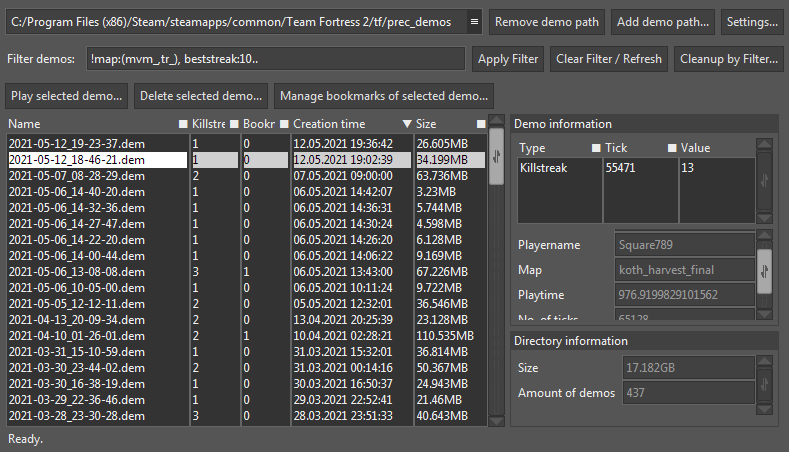
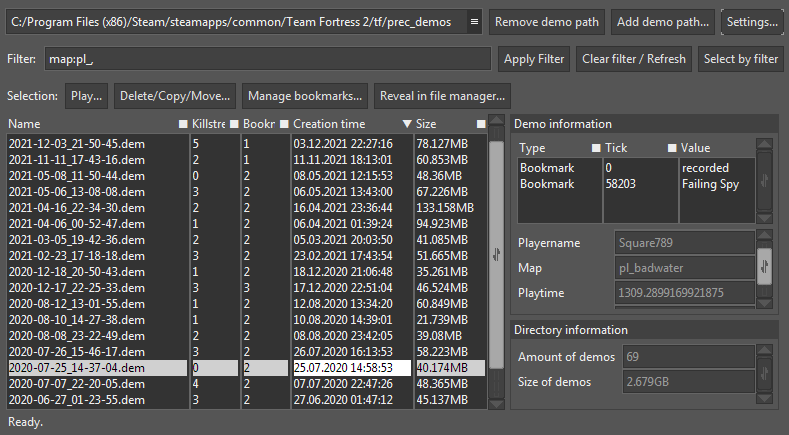
Updated README
- Pretty new picture
- Nuitka build installation instructions

diff --git a/README.md b/README.md
@@ -2,20 +2,22 @@
 Demomgr is a python program designed to keep track of, cleanup and play demo files from the Source video game Team Fortress 2, released by Valve Corporation in 2007.
 
 > ![Main program window](https://github.com/Square789/Demomgr/blob/master/img0.PNG)  
-> _Main program view, directory filtered to only display demos with a killstreak >= 10 not taking place on training or mvm maps, sorted by creation time._
+> _Main program view, directory filtered to only demos taking place on payload maps, sorted by creation time._
+
 ### Current features:
 * List Demos, their filesize, creation date and the amount of Killstreaks/Bookmarks
+  * Sort them by these criteria
 * Read Killstreak/Bookmark information from both .json files and the \_events.txt file
 * View and edit bookmark information of individual demos
 * View header information of individual demos
-* Sort and filter demos by multiple criteria
+* Filter and select demos by multiple criteria
 * Cleanup folders by filter criteria
 * Copy/Move demos and their info to other directories
 * Launch TF2 with a playdemo command attached
   * Optionally with HLAE
 * Play a demo into an already running instance of TF2 using [RCON](https://developer.valvesoftware.com/wiki/Source_RCON_Protocol)
 
-### Start Instructions:
+### Installation Instructions (Pure python):
 If you don't have python, get it from [the official website](https://www.python.org).
 
 Demomgr is in python's package index (PyPI), you can install it using `pip install demomgr`.
@@ -26,8 +28,14 @@ If that does not work out for you, try `py -m demomgr`, or in a very extravagant
 python script that runs  
 `from demomgr.main_app import MainApp; MainApp()`.
 
-After accepting the disclaimer (I have no idea how to set up tests for deletion/file management logic), you will be presented an empty UI. In order to view your demos,
-click "Add demo path" and select the directory containing your demos.  
+### Installation instructions (exe):
+There is an experimental [nuitka](https://nuitka.net/) build of Demomgr available in the "Releases" section, only for 64bit Windows.  
+Extract it to a good place for programs to be and run the contained `demomgr.exe`.
+
+### Getting started:
+After accepting the disclaimer (Look, I have no idea how to set up tests for deletion/file management logic
+intertwined with a UI, and even though I spend hours testing proper functionality there is a risk of something sneaking by),
+you will be presented an empty UI. In order to view your demos, click "Add demo path" and select the directory containing your demos.  
 You can switch between directories using the selection box at the top of the window.  
 
 ### Filter instructions:
@@ -61,4 +69,5 @@ Possible parameters are:
  * String: `"foo"`, `'b\u0061r'`
  * String tuple: `("foo", 'b\u0061r', "b\u0061z", )`
  * Range: `1..2`, `10..`, `..50`  
- 
+
+Thanks, and have fun.
